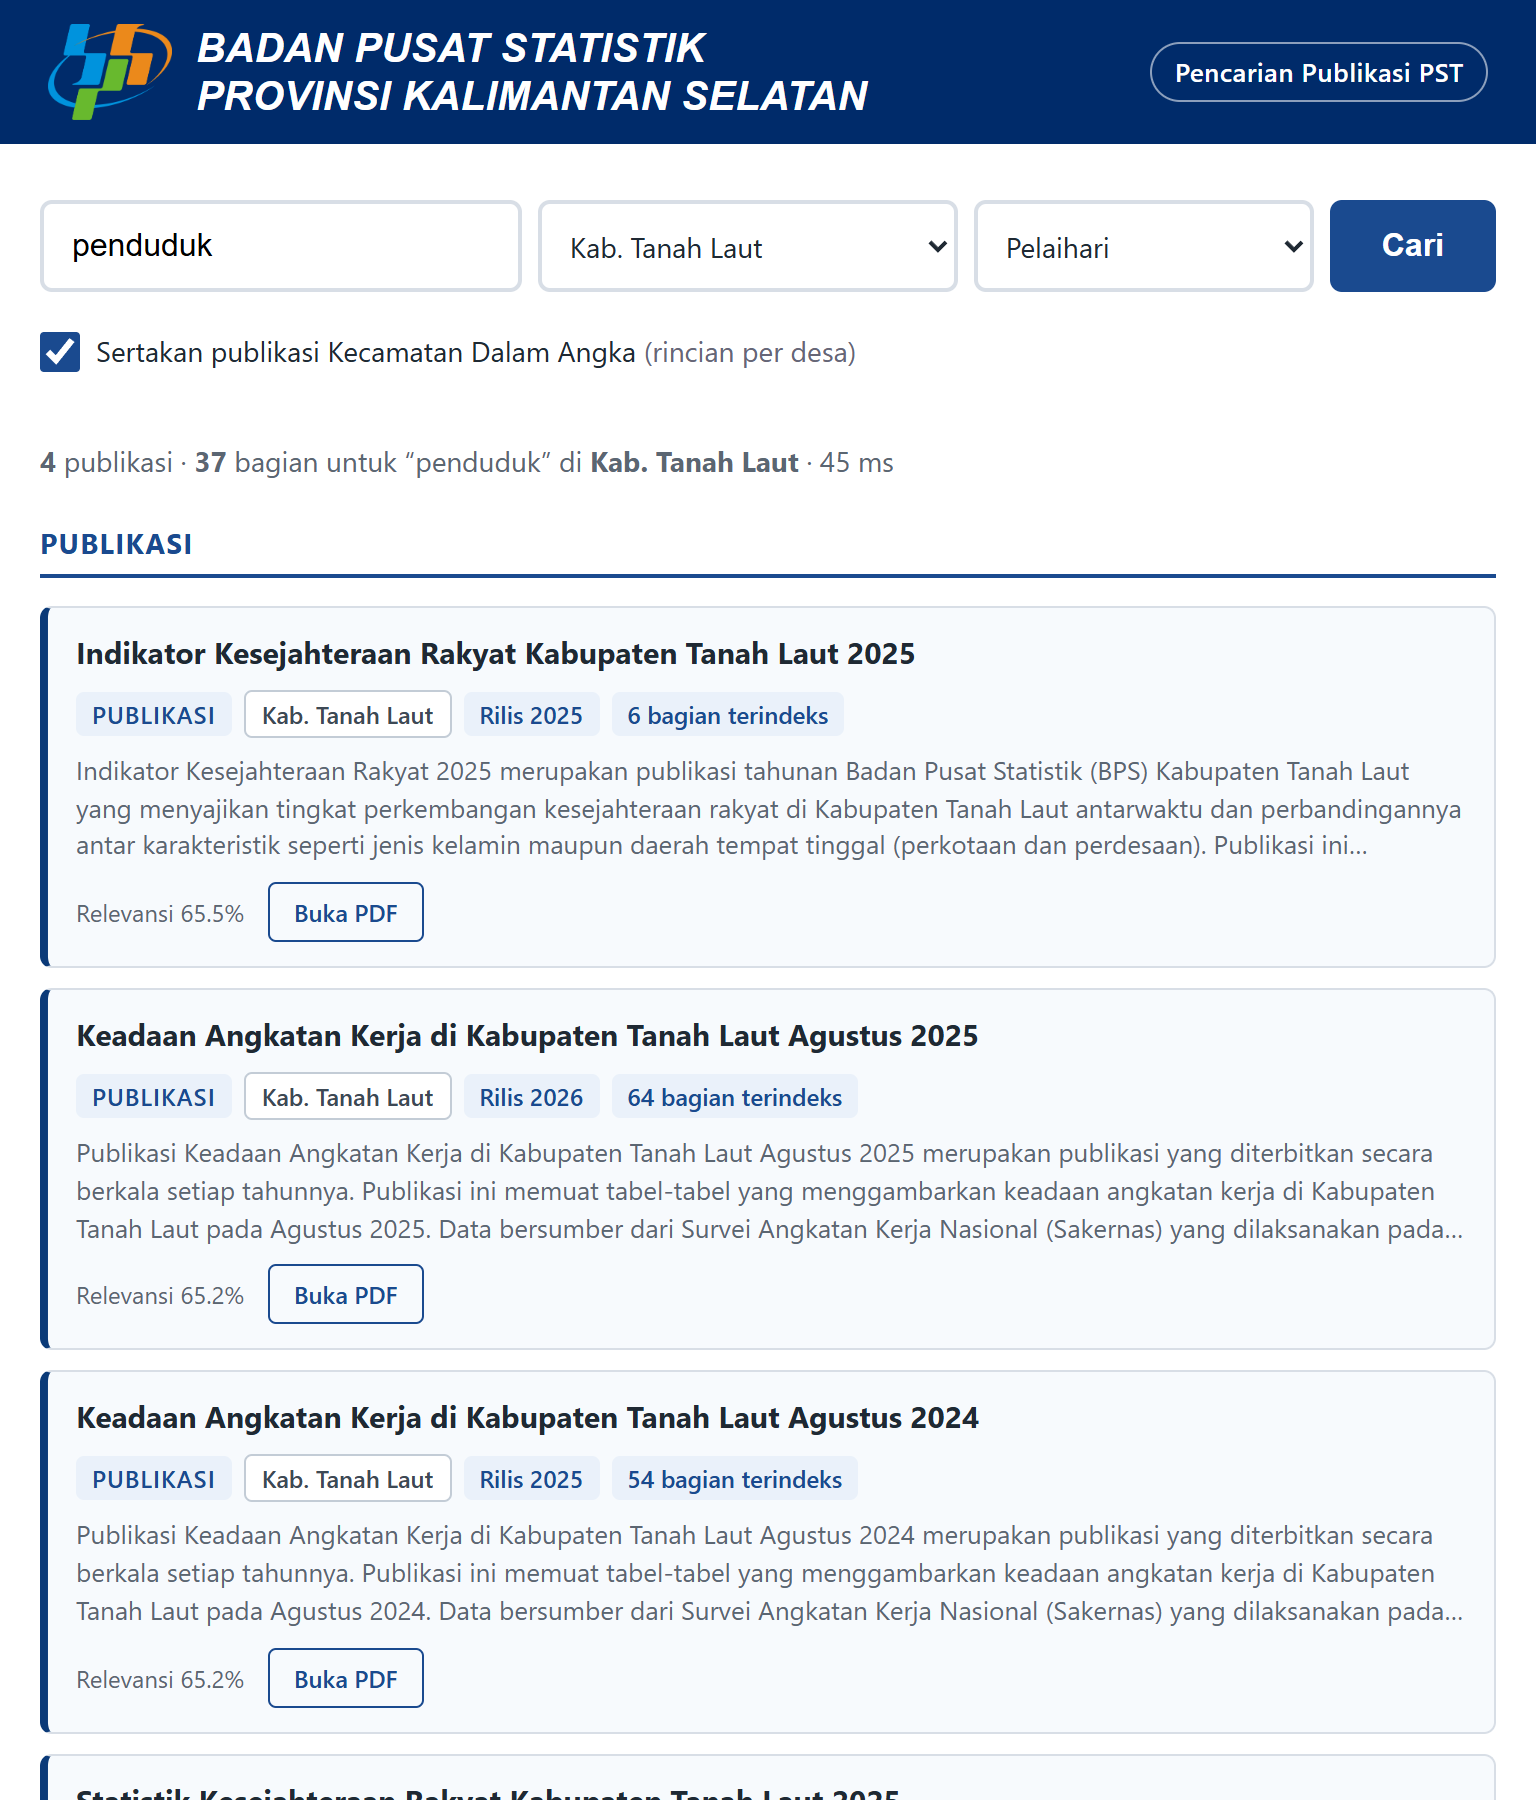
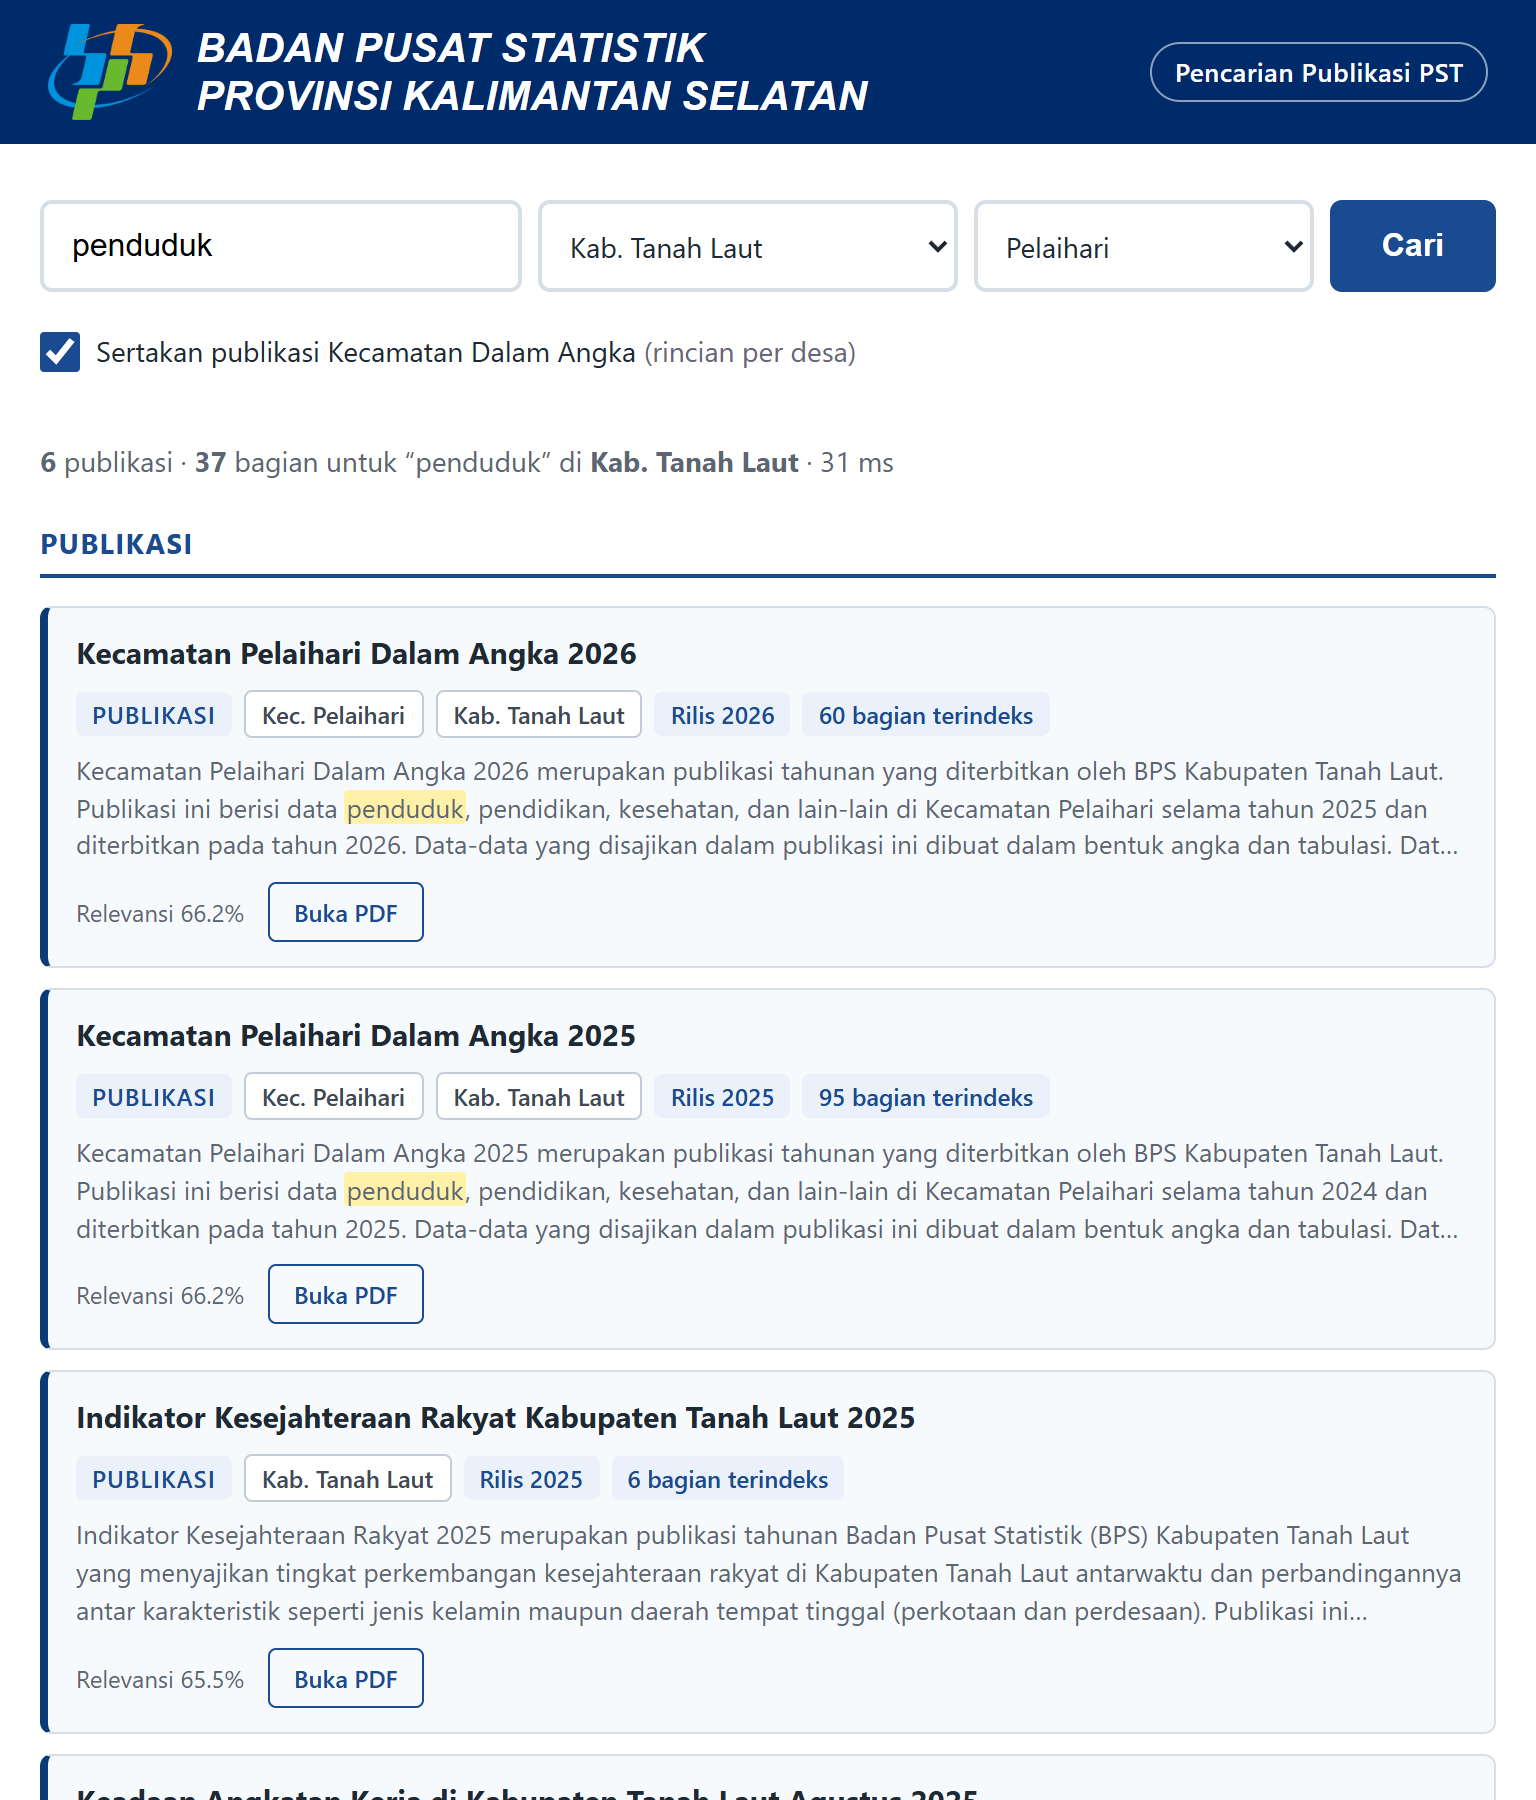
Seksi Publikasi ikut membaca publikasi kecamatan kalau dicentang
Temuan pemilik project (browser, database uji): dicentang + Kab. Tanah
Laut + Kec. Kintap + "Kecamatan Kintap Dalam Angka 2026" hanya
menampilkan Kabupaten Tanah Laut Dalam Angka di seksi Publikasi.
- mesin_pencari.cari_publikasi_kecamatan: skor yang sama dengan seksi
  Publikasi, hanya bagian publikasi_kec (domain, kc).
- pencarian_wilayah.gabung_publikasi -> kunci BARU publikasi_tampil:
  kecamatan dipilih di paling atas; publikasi utama tidak pernah
  terbuang; kecamatan lain paling banyak 10 (tanpa batas itu 20
  publikasi kecamatan menggeser publikasi kabupaten). "publikasi" (log)
  tetap hasil utama.
- hasil.html memakai publikasi_tampil kalau ada; tanpa centang tidak ada.
- uji_pipeline V5 (Kec. Binuang di domain uji 6305); V3 kini 3 putaran,
  putaran tercepat (lonjakan sesaat 111/113 ms membuat V3 gagal tanpa
  sebab kode).
Contoh pemilik project: Kintap 2026 paling atas berlabel "Kec. Kintap".
Salinan produksi 28/28 identik; uji_pipeline --hanya V 11 lulus;
Playwright 36/36.

diff --git a/app/templates/hasil.html b/app/templates/hasil.html
@@ -131,7 +131,7 @@
 {% endif %}
 
 <p class="ringkas">
-  <strong>{{ hasil.publikasi|length }}</strong> publikasi &middot;
+  <strong>{{ (hasil.publikasi_tampil or hasil.publikasi)|length }}</strong> publikasi &middot;
   <strong>{{ hasil.ditemukan|length + hasil.saran|length }}</strong> bagian untuk
   &ldquo;{{ kueri }}&rdquo;{% if filter.nama %} di <strong>{{ filter.nama }}</strong>{% endif %}
   &middot; {{ '%.0f'|format(hasil.waktu_ms) }} ms
@@ -149,7 +149,7 @@
     {% for p in hasil.publikasi %}{{ kartu_publikasi(p) }}{% endfor %}
   </section>{% if hasil.kecamatan %}
 {{ seksi_kecamatan_publikasi(hasil.kecamatan) }}{% endif %}
-{% elif not hasil.publikasi and not hasil.ditemukan and not hasil.saran and not hasil.provinsi %}
+{% elif not (hasil.publikasi_tampil or hasil.publikasi) and not hasil.ditemukan and not hasil.saran and not hasil.provinsi %}
   <div class="kosong-total">
     <h2>Tidak ada hasil untuk &ldquo;{{ kueri }}&rdquo;{% if filter.nama %} di {{ filter.nama }}{% endif %}</h2>
     {% if filter.kode %}
@@ -177,8 +177,8 @@
      kelompok kosong karena langsung diikuti judul lain bergaya mirip. #}
   <section>
     <h2 class="seksi">Publikasi</h2>
-    {% if hasil.publikasi %}
-      {% for p in hasil.publikasi %}{{ kartu_publikasi(p) }}{% endfor %}
+    {% if hasil.publikasi_tampil or hasil.publikasi %}
+      {% for p in (hasil.publikasi_tampil or hasil.publikasi) %}{{ kartu_publikasi(p) }}{% endfor %}
     {% else %}
       <p class="kosong-seksi">Tidak ada publikasi{% if filter.nama %} {{ filter.nama }}{% endif %} yang cocok.</p>
     {% endif %}

diff --git a/tests/uji_pipeline.py b/tests/uji_pipeline.py
@@ -1393,7 +1393,7 @@ def waktu(tanpa):
                 t = time.perf_counter(); M.cari(q); w.append(time.perf_counter() - t)
             med.append(statistics.median(w))
         return statistics.mean(med) * 1000
-w = [(waktu(True), waktu(False)) for _ in range(2)]
+w = [(waktu(True), waktu(False)) for _ in range(3)]
 print("V3", json.dumps(w))
 cek = []
 for a in [{"q": "jumlah penduduk menurut desa"}, {"q": "penduduk", "w": "6305"}, {"q": "tpk"}]:
@@ -1402,6 +1402,21 @@ for a in [{"q": "jumlah penduduk menurut desa"}, {"q": "penduduk", "w": "6305"},
     m = re.search(r"<strong>(\d+)</strong> bagian cocok", t)
     cek.append([a["q"], j, int(m.group(1)) if m else None, 'class="seksi seksi-kecamatan"' in t])
 print("V4", json.dumps(cek))
+# V5: seksi PUBLIKASI ikut membaca publikasi kecamatan kalau dicentang / kecamatan dipilih,
+# dan publikasi kecamatan yang dipilih paling atas (temuan pemilik project 19 Nov 2026:
+# "Kecamatan Kintap Dalam Angka 2026" tidak muncul). Domain uji 6305: Kecamatan Binuang.
+def kartu_publikasi(a):
+    t = c.get("/hasil?" + urlencode(a)).get_data(as_text=True)
+    s = re.search(r'<h2 class="seksi">Publikasi</h2>(.*?)</section>', t, re.S)
+    out = []
+    for k in re.findall(r'<article class="kartu kartu-pub">(.*?)</article>', s.group(1) if s else "", re.S):
+        j = re.sub("<[^>]+>", "", re.search(r'<h3 class="kartu-judul">(.*?)</h3>', k, re.S).group(1)).strip()
+        m = re.search(r'label-kecamatan">(.*?)</span>', k)
+        out.append([j, m.group(1) if m else None])
+    return out
+q5 = "Kecamatan Binuang Dalam Angka 2025"
+print("V5", json.dumps({"dipilih": kartu_publikasi({"q": q5, "w": "6305", "kec": "1", "kc": "binuang"})[:2],
+                        "tanpa_centang": kartu_publikasi({"q": q5, "w": "6305"})}))
 '''
 
 
@@ -1470,13 +1485,25 @@ def bagian_v():
         n_kec, n_kec1 = map(int, baris("V2").split())
         cek("V2 /api/saran tanpa kec=1: 0 saran dari publikasi kecamatan (kec=1 boleh ada)", n_kec == 0,
             f"tanpa kec {n_kec}, kec=1 {n_kec1}")
+        # 3 putaran bergantian; yang dibandingkan putaran TERCEPAT tiap database.
+        # Gangguan dari proses lain di laptop hanya bisa memperlambat, dan sekali
+        # terjadi di satu putaran (19 Nov 2026: 111 vs 84 ms di salinan TANPA
+        # kecamatan) sehingga perbandingan per putaran gagal tanpa sebab kode.
         w = json.loads(baris("V3"))
-        selisih = max(abs(u - t) / t for t, u in w)
-        cek("V3 waktu 12 kueri tanpa centang setara (selisih rata-rata median <= 10%)", selisih <= 0.10,
-            "; ".join(f"tanpa {t:.0f} ms / uji {u:.0f} ms" for t, u in w))
+        t_min, u_min = min(t for t, _ in w), min(u for _, u in w)
+        cek("V3 waktu 12 kueri tanpa centang setara (putaran tercepat, selisih <= 10%)",
+            abs(u_min - t_min) / t_min <= 0.10,
+            f"tercepat: tanpa {t_min:.0f} ms / uji {u_min:.0f} ms; per putaran: "
+            + "; ".join(f"{t:.0f}/{u:.0f}" for t, u in w))
         v4 = json.loads(baris("V4"))
         cek("V4 kotak info = jumlah di seksi bercentang; seksi tampil dengan kec=1",
             all(j == n and s for _, j, n, s in v4), v4)
+        v5 = json.loads(baris("V5"))
+        pertama = v5["dipilih"][0] if v5["dipilih"] else [None, None]
+        cek("V5 seksi Publikasi: kecamatan dipilih -> publikasi kecamatan itu paling atas berlabel Kec.; "
+            "tanpa centang -> tidak ada publikasi kecamatan",
+            pertama == ["Kecamatan Binuang Dalam Angka 2025", "Kec. Binuang"]
+            and all(k is None for _, k in v5["tanpa_centang"]), v5)
     finally:
         sql(f"DROP DATABASE IF EXISTS `{tanpa}`")
 

diff --git a/app/services/pencarian_wilayah.py b/app/services/pencarian_wilayah.py
@@ -121,7 +121,33 @@ def cari(kueri, w=None, wo=None, abaikan=None, kec=False, kc=None, semua_kec=Fal
     # hasil tanpa centang sama dengan sebelum kecamatan ada (18 Nov 2026).
     hasil["kecamatan"] = (cari_kecamatan(kueri, f, hanya_wilayah, kc, semua_kec)
                           if (kec or kc) else None)
+    # Seksi Publikasi dengan centang (19 Nov 2026): publikasi kecamatan yang
+    # cocok ikut, berlabel "Kec. X". Kunci BARU publikasi_tampil; "publikasi"
+    # (dipakai log) tetap hasil utama saja.
+    if hasil["kecamatan"] and not hanya_wilayah:
+        hasil["publikasi_tampil"] = gabung_publikasi(
+            hasil["publikasi"], hasil["kecamatan"]["publikasi_cocok"], hasil["kecamatan"]["kc"])
     return hasil
+
+
+def gabung_publikasi(utama, kecamatan, kc=None, maks_kecamatan=None):
+    """Seksi Publikasi dengan centang kecamatan (19 Nov 2026):
+      - publikasi kecamatan yang DIPILIH (kc) di paling atas;
+      - publikasi utama (provinsi/kab/kota) TIDAK pernah terbuang;
+      - publikasi kecamatan lain paling banyak `maks_kecamatan` (bawaan
+        BATAS_PUBLIKASI_KECAMATAN), digabung dengan publikasi utama menurut
+        skor lalu tanggal rilis.
+    Tanpa batas itu, kata kunci seperti "kecamatan kintap dalam angka 2026"
+    membuat 20 publikasi kecamatan menggeser publikasi kabupatennya."""
+    from datetime import date
+    maks = BATAS_PUBLIKASI_KECAMATAN if maks_kecamatan is None else maks_kecamatan
+    urut = lambda h: (-h["skor"], -(h["tanggal_rilis"] or date.min).toordinal())
+    dipilih = sorted((h for h in kecamatan if kc and h.get("kunci_kecamatan") == kc), key=urut)
+    lain = sorted((h for h in kecamatan if not (kc and h.get("kunci_kecamatan") == kc)), key=urut)[:maks]
+    return dipilih + sorted(list(utama) + lain, key=urut)
+
+
+BATAS_PUBLIKASI_KECAMATAN = 10   # publikasi kecamatan (selain yang dipilih) di seksi Publikasi
 
 
 def kecamatan_sah(f, kc):
@@ -145,14 +171,16 @@ def cari_kecamatan(kueri, f, hanya_wilayah, kc=None, semua_kec=False):
     bagian = {"kc": kc_sah, "nama_kc": nama_kc, "semua": bool(semua_kec),
               "pesan": ("Pilihan kecamatan diabaikan: pilih kabupaten/kota yang "
                         "memiliki kecamatan itu." if kc and not kc_sah else None),
-              "hasil": [], "jumlah": 0, "publikasi": []}
+              "hasil": [], "jumlah": 0, "publikasi": [], "publikasi_cocok": []}
     if hanya_wilayah:
         bagian["publikasi"] = mesin_pencari.publikasi_kecamatan(f["kode"], kc_sah)
         bagian["jumlah"] = len(bagian["publikasi"])
     elif f["kode"] != DOMAIN_PROVINSI:      # provinsi tidak punya publikasi kecamatan
+        topik = f["kueri_topik"] if f["kode"] else kueri
         r = mesin_pencari.cari_kecamatan(
-            f["kueri_topik"] if f["kode"] else kueri, domain=f["kode"],
+            topik, domain=f["kode"],
             kc=kc_sah, batas=None if semua_kec else mesin_pencari.BATAS_KECAMATAN)
         bagian.update(r)
+        bagian["publikasi_cocok"] = mesin_pencari.cari_publikasi_kecamatan(topik, f["kode"], kc_sah)
     bagian["waktu_ms"] = (time.perf_counter() - mulai) * 1000
     return bagian

diff --git a/data/regresi/tampilan-kecamatan-20261118/cek_publikasi_kecamatan.py b/data/regresi/tampilan-kecamatan-20261118/cek_publikasi_kecamatan.py
@@ -1,0 +1,26 @@
+"""Seksi PUBLIKASI dengan publikasi kecamatan (database uji). Contoh pemilik project:
+kotak dicentang, Kab. Tanah Laut, kecamatan Kintap, "Kecamatan Kintap Dalam Angka 2026"."""
+import os, re, sys, html
+from urllib.parse import urlencode
+DIR = "C:/sistem-pencarian-bps"; os.chdir(DIR); sys.path.insert(0, DIR); sys.path.insert(0, f"{DIR}/tests"); sys.stdout.reconfigure(encoding="utf-8")
+from potret_tampilan import konfigurasi
+from app import create_app
+c = create_app(konfigurasi("uji")).test_client()
+def publikasi(a):
+    t = c.get("/hasil?" + urlencode(a)).get_data(as_text=True)
+    s = re.search(r'<h2 class="seksi">Publikasi</h2>(.*?)</section>', t, re.S)
+    kartu = re.findall(r'<article class="kartu kartu-pub">(.*?)</article>', s.group(1), re.S) if s else []
+    keluar = []
+    for k in kartu:
+        judul = html.unescape(re.sub("<[^>]+>", "", re.search(r'<h3 class="kartu-judul">(.*?)</h3>', k, re.S).group(1))).strip()
+        kec = re.search(r'label-kecamatan">(.*?)</span>', k)
+        keluar.append((judul, kec.group(1) if kec else None))
+    jumlah = re.search(r"<strong>(\d+)</strong> publikasi", t)
+    return keluar, int(jumlah.group(1)) if jumlah else None
+q = "Kecamatan Kintap Dalam Angka 2026"
+for a in [{"q": "penduduk", "w": "6301", "kec": "1"}, {"q": "penduduk", "w": "6301"}, {"q": q, "w": "6301", "kec": "1", "kc": "kintap"}, {"q": q, "w": "6301", "kc": "kintap"},
+          {"q": q, "w": "6301", "kec": "1"}, {"q": q, "kec": "1"}, {"q": q, "w": "6301"}, {"q": q}]:
+    k, n = publikasi(a)
+    print(f"{a}: {len(k)} kartu (ringkas {n}), kecamatan {sum(1 for _, x in k if x)}")
+    for judul, kec in k[:3]:
+        print(f"     {judul[:60]} | {kec}")

diff --git a/app/services/mesin_pencari.py b/app/services/mesin_pencari.py
@@ -527,6 +527,23 @@ def cari_kecamatan(kueri, domain=None, kc=None, batas=BATAS_KECAMATAN,
     return {"hasil": hasil if batas is None else hasil[:batas], "jumlah": len(hasil)}
 
 
+def cari_publikasi_kecamatan(kueri, domain=None, kc=None, ambang_saran=AMBANG_SARAN):
+    """Publikasi kecamatan yang cocok dengan kueri (tingkat publikasi), dengan
+    fungsi skor yang SAMA dengan seksi Publikasi. `kc` = hanya kecamatan itu.
+    Tiap hasil + "kecamatan" (nama tampil) dan "kunci_kecamatan" (19 Nov 2026)."""
+    token_kueri = normalisasi_token(kueri)
+    if not token_kueri:
+        return []
+    k = korpus()
+    baris = k.publikasi_kec if domain is None else k.publikasi_kec_per_domain.get(domain, ())
+    if kc:
+        baris = tuple(b for b in baris if k.kecamatan_publikasi[b[0]][0] == kc)
+    hasil = _cari_publikasi(token_kueri, ambang_saran, baris)
+    for h in hasil:
+        h["kunci_kecamatan"], h["kecamatan"] = k.kecamatan_publikasi[h["publikasi_id"]]
+    return hasil
+
+
 def publikasi_kecamatan(domain, kc=None):
     """Publikasi kecamatan satu kab/kota (kueri yang hanya berisi nama
     wilayah + centang kecamatan), terbaru dulu, lalu menurut nama kecamatan."""
